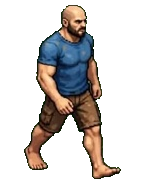
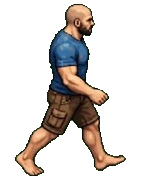
BUILD 392: fix mislabeled walk/idle frames (sword side walk was front view, blue up walk/idle were side views, blue side idle was front view); re-cropped from source sheets; frameViews audit lock + head-band facing check in sim

Changed region(s): [[0.0784, 0.0, 0.8366, 0.9574]]

diff --git a/index.html b/index.html
@@ -1,1 +1,1 @@
-<!doctype html><html lang="en"><head><!-- BUILD309-VIEWPORT-FIX-MARKER --><meta charset="UTF-8"><meta name="viewport" content="width=device-width, initial-scale=1.0, maximum-scale=1.0, user-scalable=no"><meta name="theme-color" content="#17362e"><link rel="icon" type="image/svg+xml" href="favicon.svg"><meta name="description" content="Explore Mosslight Crossing in the Adventure Game field journal."><title>Adventure Game — Mosslight Crossing</title></head><body><div id="root"></div><script>window.__AG_BUILD="391";(function(){var shown=false;function code(m){var h=0,s=window.__AG_BUILD+"|"+m;for(var i=0;i<s.length;i++){h=(Math.imul(h,31)+s.charCodeAt(i))|0;}return "AG"+window.__AG_BUILD+"-"+(h>>>0).toString(36).toUpperCase().padStart(6,"0").slice(-5);}function show(m,k){if(shown||window.__agBooted)return;shown=true;var d=document.createElement("div");d.id="ag-boot-crash";var p=document.createElement("div");p.className="ag-boot-panel";var t=document.createElement("div");t.className="ag-boot-title";t.textContent="\u26a0 GAME FAILED TO START";var c=document.createElement("div");c.className="ag-boot-code";c.textContent=code(String(m));var g=document.createElement("div");g.className="ag-boot-msg";g.textContent=String(m).slice(0,300);var n=document.createElement("div");n.className="ag-boot-kind";n.textContent=k;var b=document.createElement("button");b.textContent="Reload game";b.onclick=function(){location.reload();};p.appendChild(t);p.appendChild(c);p.appendChild(g);p.appendChild(n);p.appendChild(b);d.appendChild(p);document.body.appendChild(d);}window.addEventListener("error",function(e){if(e.target&&e.target!==window)return;show(e.message||"script error","boot error");},true);window.addEventListener("unhandledrejection",function(e){var r=e.reason;show((r&&(r.message||r))||"rejection","boot rejection");});setTimeout(function(){if(!window.__agBooted)show("The game did not finish loading in time.","load timeout");},20000);})();</script><style>#ag-boot-crash{position:fixed;inset:0;z-index:99999;background:#0d1a16;display:flex;align-items:center;justify-content:center;padding:24px}#ag-boot-crash .ag-boot-panel{max-width:420px;width:100%;background:#14261f;border:1px solid #2c4a3e;border-radius:12px;padding:24px;text-align:center;color:#e8f0e9;font-family:system-ui,sans-serif}#ag-boot-crash .ag-boot-title{font-size:20px;font-weight:800;letter-spacing:.5px}#ag-boot-crash .ag-boot-code{font-family:monospace;font-size:22px;color:#ffd75e;margin:12px 0;letter-spacing:1px}#ag-boot-crash .ag-boot-msg{font-size:13px;color:#b9c9bd;word-break:break-word}#ag-boot-crash .ag-boot-kind{font-size:11px;color:#7d8f83;margin-top:8px;text-transform:uppercase;letter-spacing:1px}#ag-boot-crash button{margin-top:16px;background:#e8a33d;border:0;border-radius:8px;padding:10px 22px;font-size:15px;font-weight:700;color:#231603;cursor:pointer}</style><script type="module" src="/src/main.tsx"></script></body></html>
+<!doctype html><html lang="en"><head><!-- BUILD309-VIEWPORT-FIX-MARKER --><meta charset="UTF-8"><meta name="viewport" content="width=device-width, initial-scale=1.0, maximum-scale=1.0, user-scalable=no"><meta name="theme-color" content="#17362e"><link rel="icon" type="image/svg+xml" href="favicon.svg"><meta name="description" content="Explore Mosslight Crossing in the Adventure Game field journal."><title>Adventure Game — Mosslight Crossing</title></head><body><div id="root"></div><script>window.__AG_BUILD="392";(function(){var shown=false;function code(m){var h=0,s=window.__AG_BUILD+"|"+m;for(var i=0;i<s.length;i++){h=(Math.imul(h,31)+s.charCodeAt(i))|0;}return "AG"+window.__AG_BUILD+"-"+(h>>>0).toString(36).toUpperCase().padStart(6,"0").slice(-5);}function show(m,k){if(shown||window.__agBooted)return;shown=true;var d=document.createElement("div");d.id="ag-boot-crash";var p=document.createElement("div");p.className="ag-boot-panel";var t=document.createElement("div");t.className="ag-boot-title";t.textContent="\u26a0 GAME FAILED TO START";var c=document.createElement("div");c.className="ag-boot-code";c.textContent=code(String(m));var g=document.createElement("div");g.className="ag-boot-msg";g.textContent=String(m).slice(0,300);var n=document.createElement("div");n.className="ag-boot-kind";n.textContent=k;var b=document.createElement("button");b.textContent="Reload game";b.onclick=function(){location.reload();};p.appendChild(t);p.appendChild(c);p.appendChild(g);p.appendChild(n);p.appendChild(b);d.appendChild(p);document.body.appendChild(d);}window.addEventListener("error",function(e){if(e.target&&e.target!==window)return;show(e.message||"script error","boot error");},true);window.addEventListener("unhandledrejection",function(e){var r=e.reason;show((r&&(r.message||r))||"rejection","boot rejection");});setTimeout(function(){if(!window.__agBooted)show("The game did not finish loading in time.","load timeout");},20000);})();</script><style>#ag-boot-crash{position:fixed;inset:0;z-index:99999;background:#0d1a16;display:flex;align-items:center;justify-content:center;padding:24px}#ag-boot-crash .ag-boot-panel{max-width:420px;width:100%;background:#14261f;border:1px solid #2c4a3e;border-radius:12px;padding:24px;text-align:center;color:#e8f0e9;font-family:system-ui,sans-serif}#ag-boot-crash .ag-boot-title{font-size:20px;font-weight:800;letter-spacing:.5px}#ag-boot-crash .ag-boot-code{font-family:monospace;font-size:22px;color:#ffd75e;margin:12px 0;letter-spacing:1px}#ag-boot-crash .ag-boot-msg{font-size:13px;color:#b9c9bd;word-break:break-word}#ag-boot-crash .ag-boot-kind{font-size:11px;color:#7d8f83;margin-top:8px;text-transform:uppercase;letter-spacing:1px}#ag-boot-crash button{margin-top:16px;background:#e8a33d;border:0;border-radius:8px;padding:10px 22px;font-size:15px;font-weight:700;color:#231603;cursor:pointer}</style><script type="module" src="/src/main.tsx"></script></body></html>

diff --git a/scripts/simulate.ts b/scripts/simulate.ts
@@ -2955,6 +2955,10 @@ console.log('Testing examine system...');
 // left/right appear reversed with the bow equipped (fixed by re-normalizing
 // the bow side frames). This test re-decodes the PNGs and fails if any side
 // frame drifts from its recorded facing signature.
+// BUILD 392: fixed four mislabeled walk/idle frames (sword_side_walk_1 was a
+// front view, blue_up_walk_0 / blue_up_idle_0 were side views, blue_side_idle_0
+// was a front view). frameViews below locks the audited view of every
+// idle/walk frame; the face-left check now uses the head band for idle/walk.
 import { inflateSync } from 'node:zlib';
 {
   function readPngRgba(path: string): { w: number; h: number; px: Uint8Array } {
@@ -3009,6 +3013,18 @@ import { inflateSync } from 'node:zlib';
     }
     return n === 0 ? 0.5 : sx / n / w;
   }
+  function headCentroidX(px: Uint8Array, w: number, h: number): number {
+    // Dark-pixel centroid of the head band (top 40%): a left-facing profile
+    // puts the head mass left of frame center. Full-body centroids are thrown
+    // off by props (e.g. the sword trailing right in sword_side_walk_1).
+    let sx = 0, n = 0;
+    const yTop = Math.floor(h * 0.4);
+    for (let y = 0; y < yTop; y += 2) for (let x = 0; x < w; x += 2) {
+      const i = (y * w + x) * 4;
+      if (px[i + 3] > 40 && px[i] + px[i + 1] + px[i + 2] < 380) { sx += x; n++; }
+    }
+    return n === 0 ? 0.5 : sx / n / w;
+  }
   const barbManifest = JSON.parse(readFileSyncSprites('public/barbarian/manifest.json', 'utf8'));
   const sigs = barbManifest._conventions?.sideCentroidX as Record<string, number> | undefined;
   assert(sigs && Object.keys(sigs).length >= 20,
@@ -3018,8 +3034,26 @@ import { inflateSync } from 'node:zlib';
     const cx = sideCentroidX(px, w, h);
     assert(Math.abs(cx - recorded) < 0.015,
       `${file}: facing signature drifted (recorded ${recorded}, now ${cx.toFixed(4)}) — side art may be reversed again`);
-    assert(cx < 0.52,
-      `${file}: side view must face screen-left (dark-pixel centroid ${cx.toFixed(3)})`);
+    // BUILD 392: the face-left check uses the head band (idle/walk only —
+    // attack frames are 3/4 action poses, not strict profiles).
+    if (/_side_(idle|walk)_/.test(file)) {
+      const hx = headCentroidX(px, w, h);
+      assert(hx < 0.52,
+        `${file}: side view must face screen-left (head centroid ${hx.toFixed(3)})`);
+    }
+  }
+  // BUILD 392: frameViews locks the visually-audited view (up/side/down) of
+  // every idle/walk frame, so a mislabeled crop (e.g. a front view saved as
+  // *_up_walk_*) fails even if its pixels never change again.
+  const frameViews = barbManifest._conventions?.frameViews as Record<string, string> | undefined;
+  assert(frameViews && Object.keys(frameViews).length >= 30,
+    'barbarian manifest must record audited views for every idle/walk frame');
+  for (const [file, view] of Object.entries(frameViews)) {
+    const m = /^(bare|blue|sword|bow)_(down|side|up)_(idle|walk)_\d+\.png$/.exec(file);
+    assert(m, `${file}: unexpected frameViews key`);
+    assert(m[2] === view,
+      `${file}: audited view is "${view}" but the filename says "${m[2]}" — frame is mislabeled`);
+    readPngRgba(`public/barbarian/${file}`); // must exist and decode
   }
   // Player layering invariant: the iso field must draw the player in a final
   // pass after the depth-sorted drawables so grass/decor never covers them.
